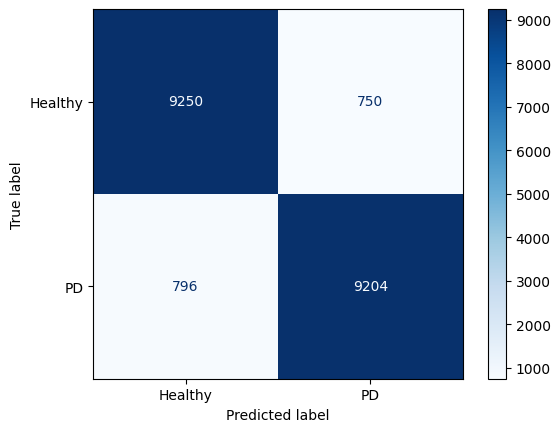
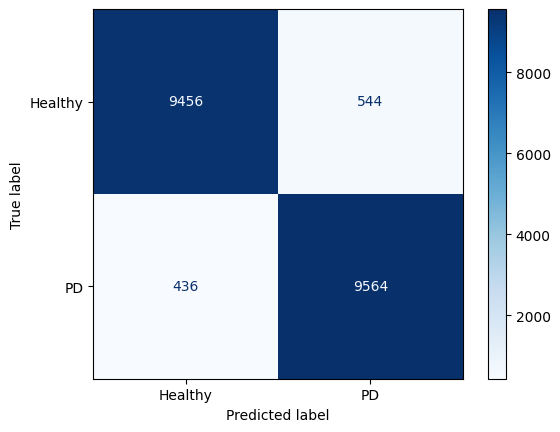
tremor done

diff --git a/2_Tremor_Models/Models/model_V12.py b/2_Tremor_Models/Models/model_V12.py
@@ -2,7 +2,7 @@ import torch
 import torch.nn as nn
 import torch.nn.functional as F
 
-NUM_HAND_FEATURES = 22  # lh_1...lh_156 and rh_1...rh_156
+NUM_HAND_FEATURES = 27  # lh_1...lh_27 and rh_1...rh_27
 
 
 # ==========================================
@@ -151,7 +151,7 @@ class TremorClassifier(nn.Module):
         7. Self-attention → residual blocks → classification
 
     Input (from CSV):
-        features:   (batch, 312) = [lh_1...lh_156, rh_1...rh_156]
+        features:   (batch, 27*2) = [lh_1...lh_27, rh_1...rh_27]
         handedness: (batch,)     - 0=Left-handed, 1=Right-handed
         movement:   (batch,)     - movement ID 0-10
 
@@ -160,7 +160,7 @@ class TremorClassifier(nn.Module):
     """
     def __init__(
         self,
-        num_hand_features=NUM_HAND_FEATURES,  # 156 per hand
+        num_hand_features=NUM_HAND_FEATURES,  # 27 per hand
         num_movements=11,
         num_classes=1,
 
@@ -228,11 +228,11 @@ class TremorClassifier(nn.Module):
 
     def _split_features(self, features):
         """
-        Split (batch, 312) into left and right hand features.
+        Split (batch, 27*2) into left and right hand features.
         
         Returns:
-            lh: (batch, 156) - left hand features
-            rh: (batch, 156) - right hand features
+            lh: (batch, 27) - left hand features
+            rh: (batch, 27) - right hand features
         """
         lh = features[:, :self.num_hand_features]   # lh_1...lh_156
         rh = features[:, self.num_hand_features:]   # rh_1...rh_156
@@ -247,8 +247,8 @@ class TremorClassifier(nn.Module):
                     1 = Right-handed (right hand is dominant)
         
         Returns:
-            dominant:     (batch, 156)
-            nondominant:  (batch, 156)
+            dominant:     (batch, 27)
+            nondominant:  (batch, 27)
         """
         # handedness mask: True where right-handed (dominant = right)
         is_right_handed = handedness.bool().unsqueeze(1)  # (batch, 1)
@@ -263,7 +263,7 @@ class TremorClassifier(nn.Module):
     def forward(self, features, handedness, movement):
         """
         Args:
-            features:   (batch, 312) - [lh_1...lh_156, rh_1...rh_156]
+            features:   (batch, 27*2) - [lh_1...lh_27, rh_1...rh_27]
             handedness: (batch,)     - 0=left-handed, 1=right-handed
             movement:   (batch,)     - movement ID
 
@@ -274,7 +274,7 @@ class TremorClassifier(nn.Module):
         lh, rh = self._split_features(features)
 
         # 2. Compute asymmetry BEFORE routing
-        asymmetry = torch.abs(lh - rh)  # (batch, 156)
+        asymmetry = torch.abs(lh - rh)  # (batch, 27)
 
         # 3. Route to dominant / non-dominant based on handedness
         dominant, nondominant = self._route_hands(lh, rh, handedness)
